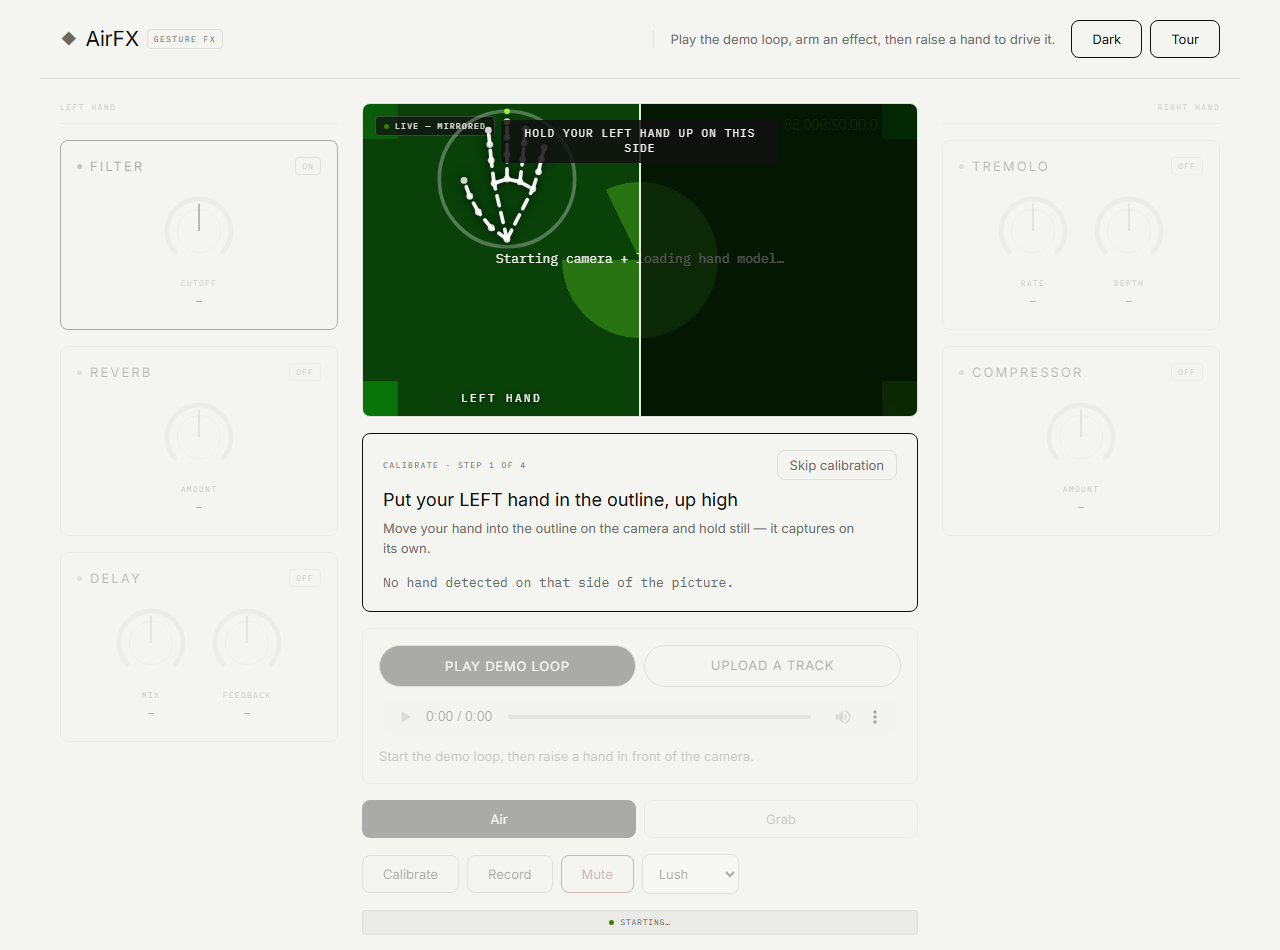
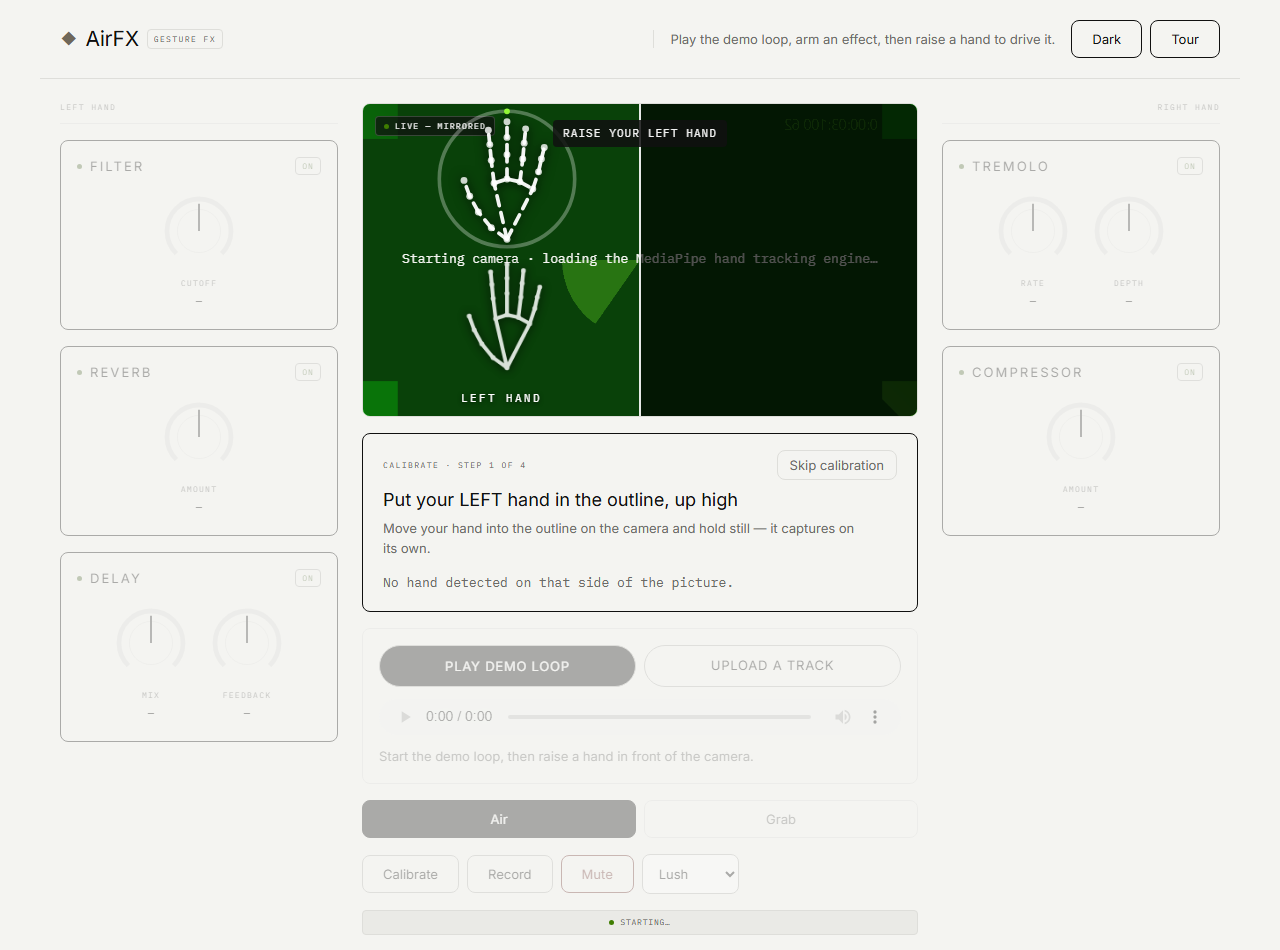
feat: run the tour while the engine loads, and name what is loading
Reported: "when the site is open, nothing is going on because the engine is
loading — can you have the tutorial start while the engine is loading, if it
gets to the point when the engine is needed but the engine is still loading
then it shows <name of engine> engine loading, then when the engine is
available the loading stops".

The hand-tracking engine is a CDN download (WASM runtime + model) that takes
seconds on a cold cache. The app revealed itself and then sat there until it
landed, which reads as a broken page rather than a loading one.

- The tour now opens BEFORE the download starts, so the wait is spent
  learning the app. Measured at ~0.6s from pressing Start, against an engine
  deliberately throttled to ~28s.
- src/engine-status.js is a small shared readiness object (loading / ready /
  error) with subscribe + unsubscribe. Ready means frames are actually being
  delivered, not merely that init() resolved.
- Seven tour steps that genuinely need tracking are marked needsEngine. On
  those, and only those, the card shows a live notice naming the engine —
  "MediaPipe hand tracking engine — loading…" — with a pulsing dot, and it
  clears itself the moment the engine lands. No click required, and the user
  stays on the step they were reading.
- The calibration CTA is disabled while waiting and reads "Waiting for the
  engine…". runAction() re-checks readiness at click time, so the guard does
  not depend on the button's disabled state alone.
[…]

Changed region(s): [[0.3438, 0.1221, 0.5938, 0.3968], [0.5938, 0.2442, 0.625, 0.2747], [0.3125, 0.2442, 0.3438, 0.2747]]

diff --git a/src/ui/onboarding.js b/src/ui/onboarding.js
@@ -7,24 +7,24 @@ export const STEPS = [
   { phase: 'Welcome', title: '👋 Meet AirFX', body: 'Play the built-in loop (or your own track) and bend its sound with your hands in the air — like conducting effects. About 30 seconds to set up.', say: 'Welcome to AirFX. Play the built in loop, or your own track, and shape its sound with your hands in the air. This quick tour will get you set up.' },
 
   { phase: 'Calibrate', title: 'First, your reach', body: 'I’ll learn how high and low your hands go, so lifting a hand means “more effect.”', target: '#calibrateBtn', say: "First, let's set your reach, so lifting a hand means more effect." },
-  { phase: 'Calibrate', title: 'Calibrate now', body: 'You’ll reach each open hand up, then down. The camera stays visible — watch the line follow your hand.', target: '#calibrateBtn', cta: 'Start calibration', action: 'calibrate', say: 'Tap start calibration. Then move each open hand high, then low, following the guide.' },
+  { phase: 'Calibrate', title: 'Calibrate now', needsEngine: true, body: 'You’ll reach each open hand up, then down. The camera stays visible — watch the line follow your hand.', target: '#calibrateBtn', cta: 'Start calibration', action: 'calibrate', say: 'Tap start calibration. Then move each open hand high, then low, following the guide.' },
   { phase: 'Calibrate', title: 'Range locked in ✓', body: 'Now you only need to reach about three-quarters of the way up for the full effect.', say: 'Great. Your range is set. Now you only need to reach about three quarters of the way up for the full effect.' },
 
   { phase: 'Track', title: 'Load some music', body: 'Tap Play demo loop — or Upload a track and pick any audio file. Either one loops so you can keep jamming.', target: '.track-actions', say: 'Tap play demo loop, or upload a track of your own. Either one loops, so you can keep jamming.' },
   { phase: 'Track', title: '🎵 Now it’s live', body: 'Everything you hear from here on is shaped by your hands in real time.', target: '.transport', say: 'Nice. Everything you hear now is shaped by your hands, in real time.' },
 
   { phase: 'Left hand', title: 'Left hand = tone', body: 'Your LEFT hand runs Filter, Reverb and Delay — these three cards on the left.', target: '.col-left', say: 'Your left hand controls filter, reverb, and delay. The three cards on the left.' },
-  { phase: 'Left hand', title: 'Lift your left hand', body: 'Open your left hand on the LEFT of the view and slowly raise it.', target: '.stage', say: 'Open your left hand on the left of the view, and slowly raise it.' },
-  { phase: 'Left hand', title: 'Hear it open up?', body: 'The arcs fill as you rise and settle as you lower — that’s all you, live.', target: '.col-left', say: 'Hear it open up? The effects swell as you rise, and settle as you lower.' },
+  { phase: 'Left hand', title: 'Lift your left hand', needsEngine: true, body: 'Open your left hand on the LEFT of the view and slowly raise it.', target: '.stage', say: 'Open your left hand on the left of the view, and slowly raise it.' },
+  { phase: 'Left hand', title: 'Hear it open up?', needsEngine: true, body: 'The arcs fill as you rise and settle as you lower — that’s all you, live.', target: '.col-left', say: 'Hear it open up? The effects swell as you rise, and settle as you lower.' },
 
-  { phase: 'Right hand', title: 'Right hand = tremolo', body: 'Open your RIGHT hand on the right and raise it for a pulsing wobble.', target: '.stage', say: 'Now your right hand. Open it on the right, and raise it for a pulsing tremolo.' },
-  { phase: 'Right hand', title: 'That pulse is tremolo', body: 'The higher you go, the faster and deeper it pulses.', target: '.col-right', say: "That's tremolo. The higher you go, the faster and deeper it pulses." },
+  { phase: 'Right hand', title: 'Right hand = tremolo', needsEngine: true, body: 'Open your RIGHT hand on the right and raise it for a pulsing wobble.', target: '.stage', say: 'Now your right hand. Open it on the right, and raise it for a pulsing tremolo.' },
+  { phase: 'Right hand', title: 'That pulse is tremolo', needsEngine: true, body: 'The higher you go, the faster and deeper it pulses.', target: '.col-right', say: "That's tremolo. The higher you go, the faster and deeper it pulses." },
 
   { phase: 'Toggle', title: 'Switching effects off', body: 'All five start ON. Tap any effect card to switch it OFF — that is how you drop reverb or delay out of the mix. Tap again to bring it back.', target: '.col-left .fx', say: 'All five effects start on. Tap any effect card to switch it off, and tap again to bring it back. That is how you drop an effect out of the mix.' },
 
   { phase: 'Modes', title: 'Two ways to play', body: 'Air is what you have been doing: your hand HEIGHT drives every armed effect at once, like conducting. Grab is the fine version — one knob at a time, set exactly where you want it.', target: '.modes', say: 'There are two ways to play. Air is what you have been doing: hand height drives every armed effect at once. Grab is the fine version, one knob at a time.' },
-  { phase: 'Modes', title: 'How Grab works', body: 'Tap Grab and a ring appears for each hand, following your index fingertip. Put a ring over a knob, pinch thumb and finger together to take hold, then move to turn it. Release to let go — the knob stays where you left it.', target: '#modeGrab', say: 'Tap grab, and a ring appears for each hand, following your index finger. Put a ring over a knob, pinch your thumb and finger together to take hold, then move to turn it. Release, and the knob stays where you left it.' },
-  { phase: 'Modes', title: 'Grab arms as you go', body: 'Grabbing a knob switches that effect on automatically, so you can pull an effect back into the mix just by reaching for it. Tap Air to go back to whole-hand control.', target: '#modeAir', say: 'Grabbing a knob switches that effect on automatically. Tap air to go back to whole hand control.' },
+  { phase: 'Modes', title: 'How Grab works', needsEngine: true, body: 'Tap Grab and a ring appears for each hand, following your index fingertip. Put a ring over a knob, pinch thumb and finger together to take hold, then move to turn it. Release to let go — the knob stays where you left it.', target: '#modeGrab', say: 'Tap grab, and a ring appears for each hand, following your index finger. Put a ring over a knob, pinch your thumb and finger together to take hold, then move to turn it. Release, and the knob stays where you left it.' },
+  { phase: 'Modes', title: 'Grab arms as you go', needsEngine: true, body: 'Grabbing a knob switches that effect on automatically, so you can pull an effect back into the mix just by reaching for it. Tap Air to go back to whole-hand control.', target: '#modeAir', say: 'Grabbing a knob switches that effect on automatically. Tap air to go back to whole hand control.' },
 
   { phase: 'Presets', title: 'Presets set the ceiling', body: 'Subtle, Lush and Extreme change how FAR the effects can go at full reach — the same gesture goes further on Extreme. Lush is the default.', target: '#preset', say: 'Presets set the ceiling. Subtle, lush and extreme change how far the effects go at full reach. The same gesture goes further on extreme.' },
 
@@ -39,9 +39,12 @@ export const STEPS = [
 const FLAG = 'airfx.onboarded';
 const NOVOICE = { speak() {}, cancel() {}, isEnabled: () => false, setEnabled() {}, supported: false };
 
-export function createOnboarding({ onCalibrate, voice = NOVOICE } = {}) {
+const NOENGINE = { name: 'hand tracking', isReady: () => true, isLoading: () => false, getState: () => 'ready', onChange: () => () => {} };
+
+export function createOnboarding({ onCalibrate, voice = NOVOICE, engine = NOENGINE } = {}) {
   let root = null;
   let i = 0;
+  let unsubscribeEngine = null;
   const phases = [...new Set(STEPS.map((s) => s.phase))];
   const firstIndexOf = (phase) => STEPS.findIndex((s) => s.phase === phase);
 
@@ -56,6 +59,7 @@ export function createOnboarding({ onCalibrate, voice = NOVOICE } = {}) {
         <h3 class="ob-title"></h3>
         <p class="ob-body"></p>
         <div class="ob-cta"></div>
+        <div class="ob-engine" hidden><span class="ob-engine-dot"></span><span class="ob-engine-text"></span></div>
         <div class="ob-nav">
           <button class="ob-back ghost">Back</button>
           <button class="ob-next">Next</button>
@@ -72,6 +76,7 @@ export function createOnboarding({ onCalibrate, voice = NOVOICE } = {}) {
       if (voice.isEnabled()) voice.speak(STEPS[i].say || STEPS[i].body);
       else voice.cancel();
     });
+    unsubscribeEngine = engine.onChange(() => { if (root) renderEngine(); });
     const dots = root.querySelector('.ob-dots');
     phases.forEach((p) => {
       const d = document.createElement('button');
@@ -131,6 +136,7 @@ export function createOnboarding({ onCalibrate, voice = NOVOICE } = {}) {
       cta.appendChild(b);
     }
     reposition();
+    renderEngine();
     voice.speak(s.say || s.body);
   }
 
@@ -144,6 +150,7 @@ export function createOnboarding({ onCalibrate, voice = NOVOICE } = {}) {
   }
 
   async function runAction(s) {
+    if (s.needsEngine && !engine.isReady()) return;
     if (s.action === 'calibrate' && onCalibrate) {
       voice.cancel();
       root.style.display = 'none'; // step aside so the calibration overlay is unobstructed
@@ -152,15 +159,50 @@ export function createOnboarding({ onCalibrate, voice = NOVOICE } = {}) {
     }
   }
 
+  // Shows, by name, that a step is waiting on the engine — and clears itself when it lands.
+  function renderEngine() {
+    if (!root) return;
+    const s = STEPS[i];
+    const box = root.querySelector('.ob-engine');
+    const text = root.querySelector('.ob-engine-text');
+    const ctaBtn = root.querySelector('.ob-ctabtn');
+    const blocked = !!s.needsEngine && !engine.isReady();
+
+    box.hidden = !blocked;
+    box.classList.toggle('failed', engine.getState() === 'error');
+    if (blocked) {
+      text.textContent = engine.getState() === 'error'
+        ? `${engine.name} engine failed to load — reload the page to try again`
+        : `${engine.name} engine — loading…`;
+    }
+    // You cannot calibrate without tracking, so the action waits with the engine.
+    if (ctaBtn) {
+      ctaBtn.disabled = blocked;
+      ctaBtn.textContent = blocked && engine.isLoading() ? 'Waiting for the engine…' : (s.cta || '');
+    }
+  }
+
   function go(n) {
     i = Math.max(0, Math.min(STEPS.length - 1, n));
     render();
   }
 
+  function teardown() {
+    if (unsubscribeEngine) { unsubscribeEngine(); unsubscribeEngine = null; }
+    if (root) { window.removeEventListener('resize', reposition); root.remove(); root = null; }
+  }
+
   function finish() {
     voice.cancel();
     localStorage.setItem(FLAG, '1');
-    if (root) { window.removeEventListener('resize', reposition); root.remove(); root = null; }
+    teardown();
+  }
+
+  // Closes the tour WITHOUT marking it seen — for when startup fails and the user is sent
+  // back to the start screen. They should still get the tour on their next attempt.
+  function abort() {
+    voice.cancel();
+    teardown();
   }
 
   function start() {
@@ -169,5 +211,5 @@ export function createOnboarding({ onCalibrate, voice = NOVOICE } = {}) {
     go(0);
   }
 
-  return { start, isFirstRun: () => !localStorage.getItem(FLAG) };
+  return { start, abort, isFirstRun: () => !localStorage.getItem(FLAG) };
 }

diff --git a/src/main.js b/src/main.js
@@ -1,6 +1,6 @@
 import { createAudioEngine } from './audio/audio-engine.js';
 import { createRecorder } from './audio/recorder.js';
-import { CameraGestureSource } from './gestures/camera-source.js';
+import { CameraGestureSource, ENGINE_NAME } from './gestures/camera-source.js';
 import { applyCalibration, DEFAULT_PROFILE } from './calibration/profile.js';
 import { OneEuroFilter } from './smoothing/one-euro.js';
 import { Hysteresis } from './smoothing/debounce.js';
@@ -14,6 +14,7 @@ import { createOnboarding } from './ui/onboarding.js';
 import { createVoice } from './ui/voice.js';
 import { createGrab } from './ui/grab.js';
 import { createThemeToggle } from './ui/theme.js';
+import { createEngineStatus } from './engine-status.js';
 import { renderDemoTrack } from './audio/demo-track.js';
 
 // True on localhost/127.0.0.1/file:, or when the URL carries ?debug.
@@ -50,6 +51,7 @@ function makeHandPipeline(side) {
 }
 
 createThemeToggle(document.getElementById('themeBtn'));
+const engineStatus = createEngineStatus(ENGINE_NAME);
 
 const startBtn = document.getElementById('startBtn');
 const startError = document.getElementById('startError');
@@ -144,7 +146,7 @@ async function start() {
     document.getElementById('startScreen').hidden = true;
     document.getElementById('app').hidden = false;
     const status = document.getElementById('status');
-    if (status) status.textContent = 'Starting camera + loading hand model…';
+    if (status) status.textContent = `Starting camera · loading the ${ENGINE_NAME} engine…`;
 
     // These controls touch only the audio engine and the DOM, never the camera, so
     // they are wired before the hand model downloads. Wiring them afterwards left
@@ -179,11 +181,29 @@ async function start() {
     document.getElementById('modeAir').addEventListener('click', () => setMode('air'));
     document.getElementById('modeGrab').addEventListener('click', () => setMode('grab'));
 
-
     // Console debug handle: local dev or an explicit ?debug, never on the public build.
     if (DEBUG) window.__airfx = { ctx, engine, camera, setProfile };
 
-    await camera.init();
+    // The tour opens NOW, before the engine download, so the wait is spent learning the app
+    // instead of watching a still frame. Steps that need tracking name the engine and wait
+    // for it; every other step is usable immediately.
+    const onboarding = createOnboarding({
+      voice,
+      engine: engineStatus,
+      onCalibrate: async () => { profile = await runCalibration({ getLatestRaw: () => latestRaw, voice }); },
+    });
+    const helpBtn = document.getElementById('helpBtn');
+    if (helpBtn) helpBtn.addEventListener('click', () => onboarding.start());
+    if (onboarding.isFirstRun()) onboarding.start();
+
+    try {
+      await camera.init();
+    } catch (err) {
+      // Send the user back to the start screen without burning their first-run tour.
+      engineStatus.fail(err);
+      onboarding.abort();
+      throw err;
+    }
 
     const saved = loadProfile();
     if (saved) profile = saved;
@@ -227,16 +247,9 @@ async function start() {
       }
     });
 
-    // First-run guided tour, plus the persistent "Tour" replay button. Started only
-    // once the camera feed is live: it teaches hand gestures, so it should not open
-    // over a blank stage.
-    const onboarding = createOnboarding({
-      voice,
-      onCalibrate: async () => { profile = await runCalibration({ getLatestRaw: () => latestRaw, voice }); },
-    });
-    const helpBtn = document.getElementById('helpBtn');
-    if (helpBtn) helpBtn.addEventListener('click', () => onboarding.start());
-    if (onboarding.isFirstRun()) onboarding.start();
+    // Ready means frames are actually being delivered, not merely that init() resolved.
+    engineStatus.ready();
+
   } catch (e) {
     // Revert to the start screen so the error is visible and retryable.
     document.getElementById('app').hidden = true;

diff --git a/tests/engine-status.test.js b/tests/engine-status.test.js
@@ -1,0 +1,60 @@
+import { test } from 'node:test';
+import assert from 'node:assert/strict';
+import { createEngineStatus } from '../src/engine-status.js';
+
+test('starts loading, with the engine named', () => {
+  const e = createEngineStatus('MediaPipe hand tracking');
+  assert.equal(e.name, 'MediaPipe hand tracking');
+  assert.equal(e.getState(), 'loading');
+  assert.equal(e.isLoading(), true);
+  assert.equal(e.isReady(), false);
+});
+
+test('ready() flips state and notifies listeners once', () => {
+  const e = createEngineStatus('x');
+  const seen = [];
+  e.onChange((state) => seen.push(state));
+  e.ready();
+  e.ready(); // idempotent: a second call must not re-notify
+  assert.equal(e.isReady(), true);
+  assert.deepEqual(seen, ['ready']);
+});
+
+test('fail() records the error and reports it', () => {
+  const e = createEngineStatus('x');
+  const boom = new Error('cdn unreachable');
+  const seen = [];
+  e.onChange((state, err) => seen.push([state, err?.message]));
+  e.fail(boom);
+  assert.equal(e.getState(), 'error');
+  assert.equal(e.isReady(), false);
+  assert.equal(e.isLoading(), false);
+  assert.equal(e.getError(), boom);
+  assert.deepEqual(seen, [['error', 'cdn unreachable']]);
+});
+
+test('unsubscribing stops delivery', () => {
+  // A torn-down tour must not keep a listener that writes into removed DOM.
+  const e = createEngineStatus('x');
+  let calls = 0;
+  const off = e.onChange(() => { calls++; });
+  off();
+  e.ready();
+  assert.equal(calls, 0);
+});
+
+test('a listener that unsubscribes during notification does not break the others', () => {
+  const e = createEngineStatus('x');
+  const order = [];
+  const off = e.onChange(() => { order.push('a'); off(); });
+  e.onChange(() => order.push('b'));
+  e.ready();
+  assert.deepEqual(order, ['a', 'b']);
+});
+
+test('fail() after ready() is still recorded', () => {
+  const e = createEngineStatus('x');
+  e.ready();
+  e.fail(new Error('camera unplugged'));
+  assert.equal(e.getState(), 'error');
+});

diff --git a/src/engine-status.js b/src/engine-status.js
@@ -1,0 +1,41 @@
+// Shared readiness for the hand-tracking engine.
+//
+// The engine is a CDN download (WASM runtime + model) that takes seconds on a cold cache.
+// The app used to reveal itself and then sit there doing nothing until it landed, which reads
+// as a broken page. The tour now opens immediately and consults this object, so the wait is
+// spent learning the app instead of staring at it — and any step that genuinely needs
+// tracking says so by name rather than silently not working.
+
+export function createEngineStatus(name) {
+  let state = 'loading'; // 'loading' | 'ready' | 'error'
+  let error = null;
+  const listeners = new Set();
+  const emit = () => { for (const fn of [...listeners]) fn(state, error); };
+
+  return {
+    name,
+    getState: () => state,
+    isReady: () => state === 'ready',
+    isLoading: () => state === 'loading',
+    getError: () => error,
+
+    ready() {
+      if (state === 'ready') return;
+      state = 'ready';
+      error = null;
+      emit();
+    },
+    fail(err) {
+      state = 'error';
+      error = err || new Error('unknown');
+      emit();
+    },
+
+    // Returns an unsubscribe function, so a torn-down tour cannot leak a listener that
+    // writes into removed DOM.
+    onChange(fn) {
+      listeners.add(fn);
+      return () => listeners.delete(fn);
+    },
+  };
+}

diff --git a/styles.css b/styles.css
@@ -288,6 +288,24 @@ select#preset {
   border-radius: var(--r-pill); padding: 12px 24px;
   font: 400 13px var(--sans); letter-spacing: .06em; text-transform: uppercase; cursor: pointer;
 }
+.ob-engine {
+  display: flex; align-items: center; gap: var(--s2);
+  margin-bottom: var(--s3); padding: 8px 10px;
+  background: var(--badge); border: 1px solid var(--rule); border-radius: var(--r-tag);
+  font: 400 13px/1.4 var(--mono); color: var(--ink-2);
+}
+.ob-engine[hidden] { display: none; }
+.ob-engine-dot {
+  width: 7px; height: 7px; border-radius: var(--r-pill); flex: none;
+  background: var(--pulse); animation: obPulse 1.2s ease-in-out infinite;
+}
+.ob-engine.failed { border-color: var(--danger); color: var(--danger); }
+.ob-engine.failed .ob-engine-dot { background: var(--danger); animation: none; }
+@keyframes obPulse { 0%, 100% { opacity: .25; } 50% { opacity: 1; } }
+@media (prefers-reduced-motion: reduce) { .ob-engine-dot { animation: none; } }
+
+.ob-ctabtn:disabled { opacity: .45; cursor: progress; }
+
 .ob-nav { display: flex; gap: var(--s2); align-items: center; }
 .ob-next {
   margin-left: auto; background: var(--action); color: var(--canvas);

diff --git a/src/gestures/camera-source.js b/src/gestures/camera-source.js
@@ -1,6 +1,9 @@
 import { FilesetResolver, HandLandmarker } from '@mediapipe/tasks-vision';
 import { countOpenFingers, handHeight, handSize } from './landmarks.js';
 
+// Shown to users while this downloads, so it is a real name rather than "please wait".
+export const ENGINE_NAME = 'MediaPipe hand tracking';
+
 const WASM = 'https://cdn.jsdelivr.net/npm/@mediapipe/tasks-vision@0.10.35/wasm';
 const MODEL = 'https://storage.googleapis.com/mediapipe-models/hand_landmarker/hand_landmarker/float16/latest/hand_landmarker.task';
 
